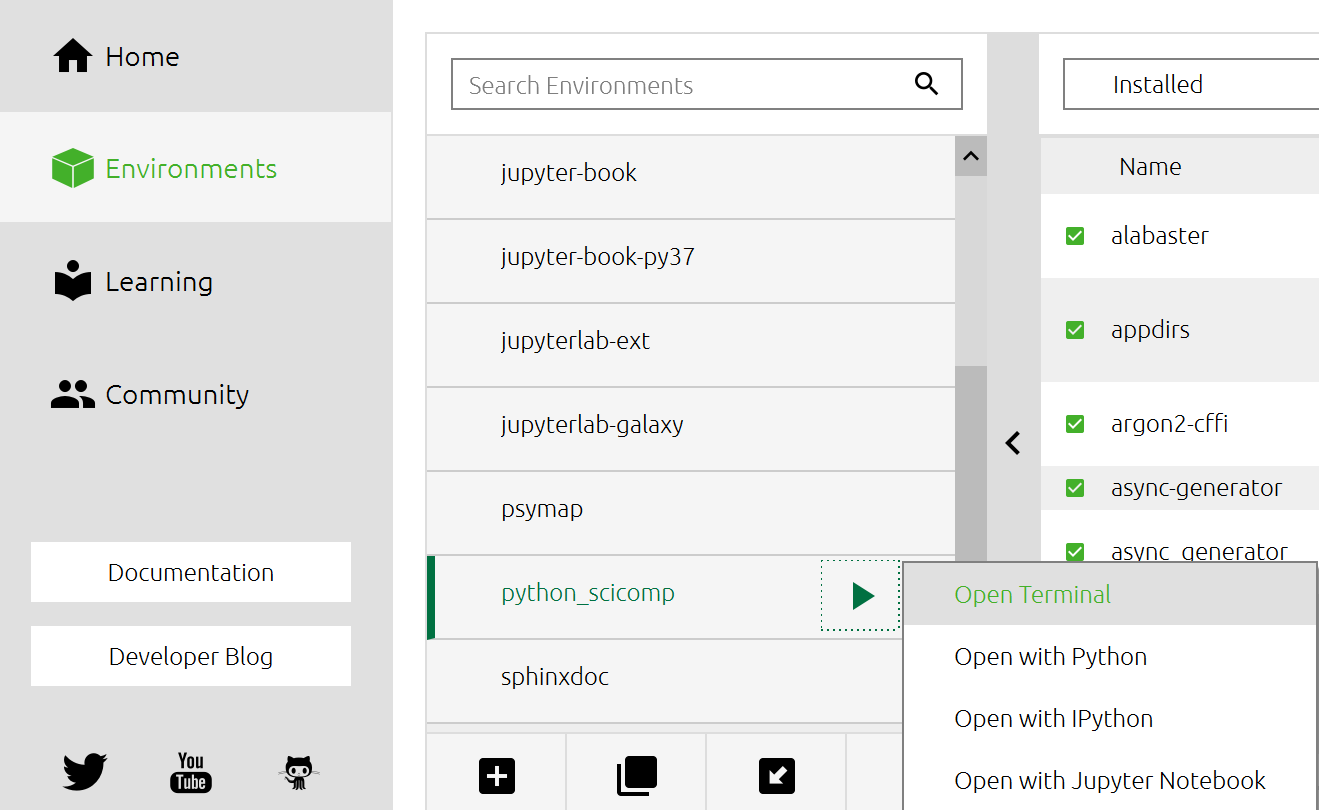
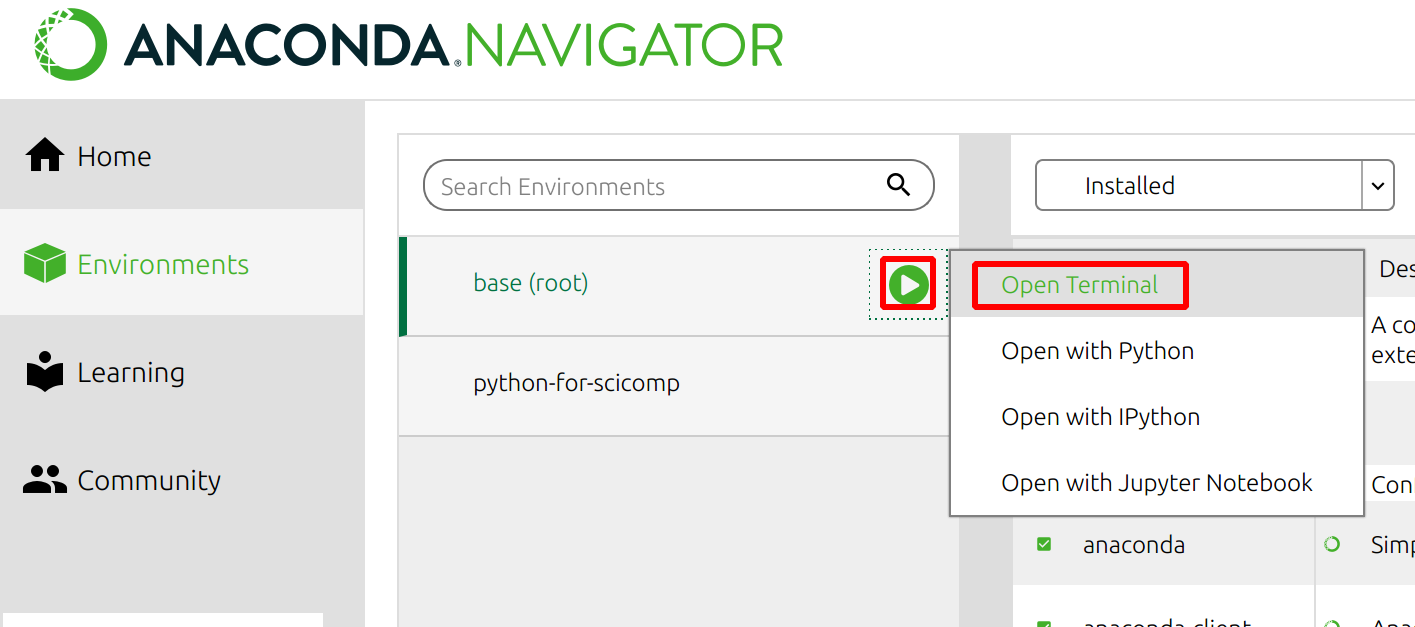
installation: Improve instructions throughout
- Revise throughout
- More screenshots
- Hide (behind toggle admonitions) some advanced or other options.
  This allows us to say best practices while not making the main flow
  over complex.
- Reduce some duplication of command line/text editor sections.
- Remove most git instructions (while still mentioning it).
- Review
  - This is worth a careful reading to ensure that everything is
    correct (but the render looks OK)

diff --git a/content/installation.rst b/content/installation.rst
@@ -7,34 +7,29 @@ Software installation
    follow these steps yet.
 
 This page contains instructions for installing the required software
-on your computer.  
+on your computer.
 Please make sure before the course that you have all the required software
 installed or in any other way access to it.
 
 For example, the workshop could be done with a remote Jupyter
 server, as long as you can use the terminal from the Jupyter (you need
-to be able to access the command line sometime).
+to be able to access the command line for some lessons).
 
 
 Generic list of tools required
 ------------------------------
 
-The actual installation instructions are below.
+Note: The actual installation instructions are below.
 
-* **Python 3** (Anaconda is suggested, it will include everything)
+* **Python 3** (Anaconda is recommended, it will include everything)
 
   * including some major packages which you can find in the miniconda
     instructions below.  Again, anaconda includes everything.
+* Text editor (several lessons, can also be done through Jupyterlab)
+* Command-line shell (several lessons, can also be done through Jupyterlab)
+* git (optional, lesson is usually done as a demo)
 
-For certain lessons, the following is useful (if you don't have, they
-can be taken as a demo):
-
-* Text editor (can also be done through Jupyterlab)
-* Command-line shell (can also be done through Jupyterlab)
-* git
-
-
-.. admonition:: Generic instructions with miniconda (advanced)
+.. admonition:: Generic instructions with miniconda and an environment file (advanced)
    :class: dropdown
 
    This is the advanced, minimal method.  For most people, we
@@ -53,6 +48,9 @@ can be taken as a demo):
 
       conda env create -f https://raw.githubusercontent.com/AaltoSciComp/python-for-scicomp/master/software/environment.yml
 
+   We might have missed some packages, though, which can be later
+   installed with ``conda install``.
+
 
 
 Python
@@ -60,51 +58,125 @@ Python
 
 We expect you to have a working Python installation with some common
 libraries.  We recommend that you install the `Anaconda python
-distribution <https://docs.continuum.io/anaconda/install/>`__.  For
-more information on installing anaconda, you can see `the CodeRefinery
-instructions <https://coderefinery.github.io/installation/python/>`__.
+distribution <https://docs.continuum.io/anaconda/install/>`__.  The
+`Anaconda Navigator <https://docs.anaconda.com/anaconda/navigator/>`__
+provides a convenient way to access the software.
 
-Any other Python distribution which you can install libraries into
-would work, but because there are so many different ways to do this,
-we don't support them.
+.. admonition:: Other options
+   :class: toggle
 
+   We recommend Anaconda, Anaconda Navigator, and JupyterLab in these
+   instructions because it is simple and can be used by everyone.  We
+   recommend that you eventually explore other options as well, but
+   that can come later.
 
-Command line
-~~~~~~~~~~~~
-
-There are different ways to start the command line.
-
-* From the Anaconda Navigator:
-
-  .. figure:: img/installation/anaconda-prompt.png
-     :class: with-border
-
-     From the Anaconda Navigator, you can select "environments" on the
-     left, then click on one, then the arrow, then "Open terminal".
-
-* You can try from the Jupyter terminal.
+   Any other Python distribution which you can install libraries into
+   would work, but because there are so many different ways to do this,
+   we don't support them.  You would need the extra libraries mentioned
+   in the Miniconda instructions above.
 
 
+JupyterLab
+~~~~~~~~~~
 
-Verify the installation
-~~~~~~~~~~~~~~~~~~~~~~~
+We do most of the lessons from JupyterLab (and JupyterLab provides
+most of the other tools we need).  If you install the full
+Anaconda distribution, this will be available and can be started
+either through Anaconda Navigator or command line.
+
+
+
+Verification of Python and JupyterLab
+~~~~~~~~~~~~~~~~~~~~~~~~~~~~~~~~~~~~~
 
 .. admonition:: Watch the video
 
    See this `verification in video form
    <https://youtu.be/OEX1ss_HCHc>`__ - if you can do this, you are
-   ready to go for day one.
+   ready to go for day one.  Your exact steps may be a bit different.
 
-You should be able to start JupyterLab.  You can do this from the
-`Anaconda Navigator <https://docs.anaconda.com/anaconda/navigator/>`__ (recommended if you have it), or from the command
-line like this:
+**You should be able to start JupyterLab.**  You can do this from the
+`Anaconda Navigator <https://docs.anaconda.com/anaconda/navigator/>`__ (recommended if you have it):
+
+.. figure:: img/installation/anaconda-navigator-jupyterlab.png
+   :class: with-border
+
+   Starting JupyterLab from the Anaconda Navigator.
+
+... or you can start JupyterLab from the command line:
 
 .. code-block:: console
 
-   $ jupyter lab
+   $ jupyter-lab
    (... Jupyter starts in a web browser)
 
-To verify command line usage:
+
+
+**Verify that you can start a Jupyter notebook.** We will learn how to
+do this in day 1, but you can try running ``print("Hello, world!")``
+if you want.
+
+.. figure:: img/installation/jupyterlab-notebook.png
+   :class: with-border
+
+   Starting a Jupyter Notebook from JupyterLab.
+
+
+Text editor
+-----------
+
+For one portion of the course, you will need a text editor.  **If you
+don't know what to use, you can use the text editor that comes from
+JupyterLab and it will do everything you need - no extra installation
+needed.**
+
+.. admonition:: Other editors
+   :class: toggle
+
+   For other editors, see the `CodeRefinery instructions
+   <https://coderefinery.github.io/installation/editors/>`__.  You don't
+   exactly need a terminal editor - the graphical ones, such as VSCode or
+   whatever you use now, will work as well.
+
+
+
+Command line
+------------
+
+**You need access to the command line for some lessons.  JupyterLab
+includes it, so no extra installation is needed.**  If you want to
+test in advance:
+
+* You can start it from JupyterLab (recommended):
+
+  .. figure:: img/installation/jupyterlab-terminal.png
+     :class: with-border
+     :scale: 75%
+
+     From the JupyterLab launcher, select "Terminal".
+
+.. admonition:: Other ways to access the command line
+   :class: toggle
+
+   * From the Anaconda Navigator:
+
+     .. figure:: img/installation/anaconda-prompt.png
+        :class: with-border
+
+        From the Anaconda Navigator, you can select "environments" on the
+        left, then click on one, then the arrow, then "Open terminal".
+
+   * From your operating system's terminal applications, if you activate
+     Anaconda.
+
+
+
+Verification of the command line
+~~~~~~~~~~~~~~~~~~~~~~~~~~~~~~~~
+
+To verify command line usage, type the following commands (without the
+``$``), and you should see the corresponding output that lists the
+Python version:
 
 .. code-block:: console
 
@@ -115,49 +187,31 @@ To verify command line usage:
    $ python3 -V
    Python 3.8.3
 
-Any version of Python 3 through Anaconda should work for the course.
+Any version of Python 3 through a recent Anaconda should work for the
+course.
 
-
-Text editor
------------
-
-For one portion of the course, you will need a text editor.  If you
-don't know what to use, you can use the text editor that comes from
-JupyterLab and it will do everything you need.
-
-For other editors, see the `CodeRefinery instructions
-<https://coderefinery.github.io/installation/editors/>`__.  You don't
-exactly need a terminal editor - the graphical ones, such as VSCode or
-whatever you use now, will work as well.
-
-
-
-Command line
-------------
-
-See above under "command line".
-
-TODO.  You can see the `CodeRefinery instructions
-<https://coderefinery.github.io/installation/bash/>`__ for more
-advanced ways of doing things.
 
 
 git
 ---
 
-On the very last day, we use git.  See the `CodeRefinery instructions
-<https://coderefinery.github.io/installation/git/>`__.
+One lesson uses the ``git`` version control system.  However, it is
+primarily done as a demo, so no installation is needed.
 
-Verify:
 
-.. code-block:: console
-
-   $ git --version
-   git version 2.17.1
 
 Zoom
 ----
 
-If this is an online workshop, it might use zoom.  You can see
+If this is an online workshop, it might use Zoom.  You can see
 `CodeRefinery instructions for it
 <https://coderefinery.github.io/installation/zoom/>`__.
+
+
+
+Need help?
+----------
+
+If you have access, come to one of the installation help sessions.
+Or, ask your colleagues: these are standard tools and you can
+definitely find someone can help you get set up!
